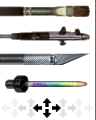
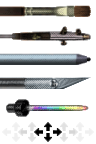
added pixelart tool, updated widget

diff --git a/PixelArt.h b/PixelArt.h
@@ -18,29 +18,24 @@ along with Rendera; if not, write to the Free Software
 Foundation, Inc., 51 Franklin St, Fifth Floor, Boston, MA  02110-1301 USA
 */
 
+#ifndef PIXELART_H
+#define PIXELART_H
+
 #include "rendera.h"
 
-Tool *Tool::paint;
-Tool *Tool::airbrush;
-Tool *Tool::pixelart;
-Tool *Tool::crop;
-Tool *Tool::getcolor;
-Tool *Tool::offset;
-
-Tool::Tool()
+class PixelArt : public Tool
 {
-  stroke = new Stroke();
-  reset();
-}
+public:
+  PixelArt();
+  virtual ~PixelArt();
 
-Tool::~Tool()
-{
-  delete stroke;
-}
+  virtual void render();
 
-void Tool::reset()
-{
-  started = 0;
-  active = 0;
-}
+  virtual void push(View *);
+  virtual void drag(View *);
+  virtual void release(View *);
+  virtual void move(View *);
+};
+
+#endif
 

diff --git a/Gui.h b/Gui.h
@@ -44,6 +44,7 @@ public:
   Fl_Group *tools;
   Fl_Group *paint;
   Fl_Group *airbrush;
+  Fl_Group *pixelart;
   Fl_Group *crop;
   Fl_Group *getcolor;
   Fl_Group *offset;
@@ -79,6 +80,10 @@ public:
   Widget *airbrush_shape;
   Widget *airbrush_edge;
   Widget *airbrush_smooth;
+
+  Widget *pixelart_brush;
+  Widget *pixelart_stroke;
+  Widget *pixelart_pattern;
 
   Field *crop_x;
   Field *crop_y;

diff --git a/check.h b/check.h
@@ -21,6 +21,8 @@ void check_airbrush_size(Widget *, void *);
 void check_airbrush_stroke(Widget *, void *);
 void check_airbrush_edge(Widget *, void *);
 void check_airbrush_smooth(Widget *, void *);
+void check_pixelart_brush(Widget *, void *);
+void check_pixelart_stroke(Widget *, void *);
 void check_tool(Widget *, void *);
 void check_color(Widget *, void *);
 void check_wrap(Widget *, void *);

diff --git a/rendera.h b/rendera.h
@@ -55,6 +55,7 @@ Foundation, Inc., 51 Franklin St, Fifth Floor, Boston, MA  02110-1301 USA
 #include "Tool.h"
 #include "Paint.h"
 #include "Airbrush.h"
+#include "PixelArt.h"
 #include "Offset.h"
 #include "GetColor.h"
 #include "Crop.h"

diff --git a/Tool.h b/Tool.h
@@ -55,6 +55,7 @@ public:
   // static vars
   static Tool *paint;
   static Tool *airbrush;
+  static Tool *pixelart;
   static Tool *crop;
   static Tool *getcolor;
   static Tool *offset;
